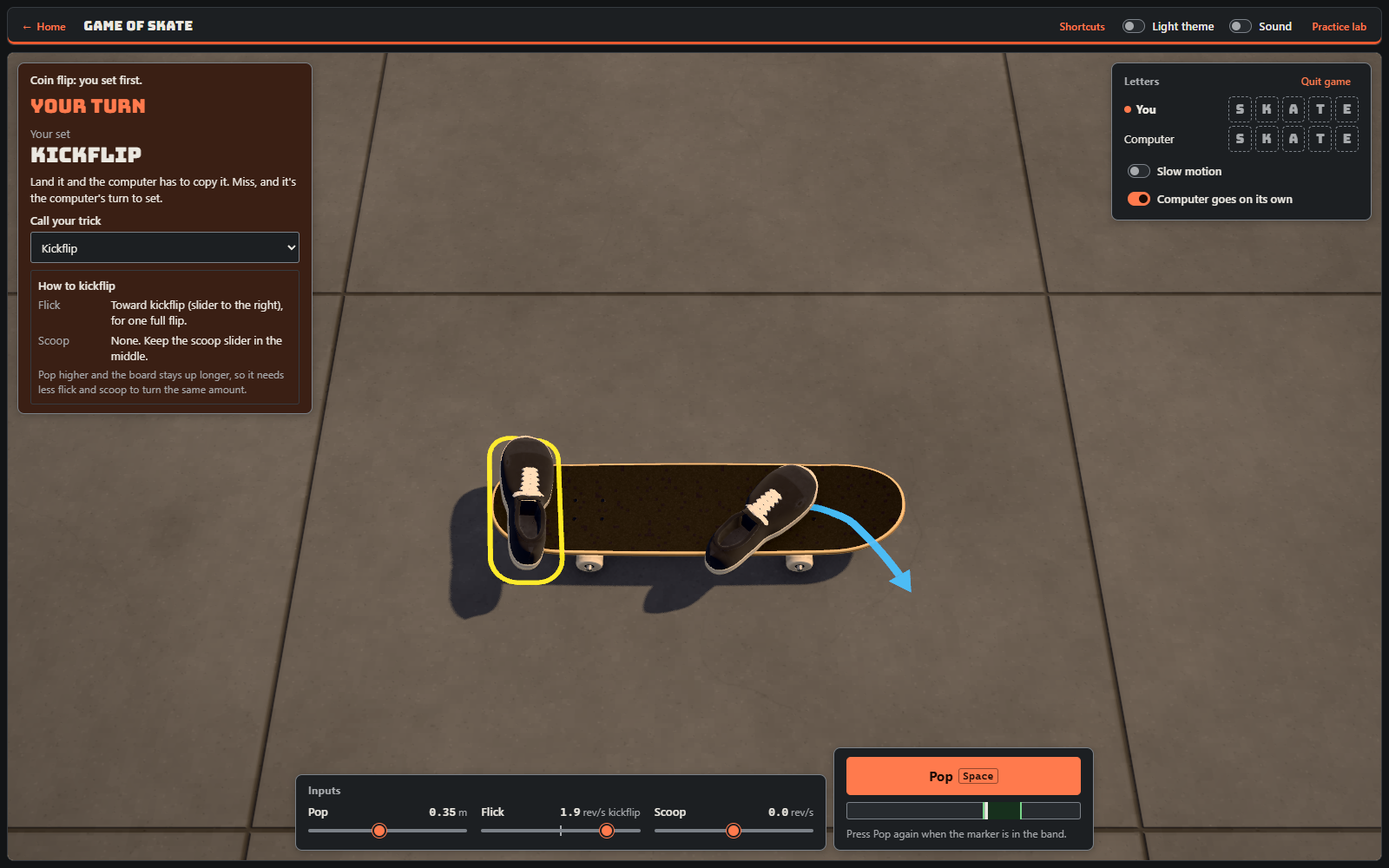
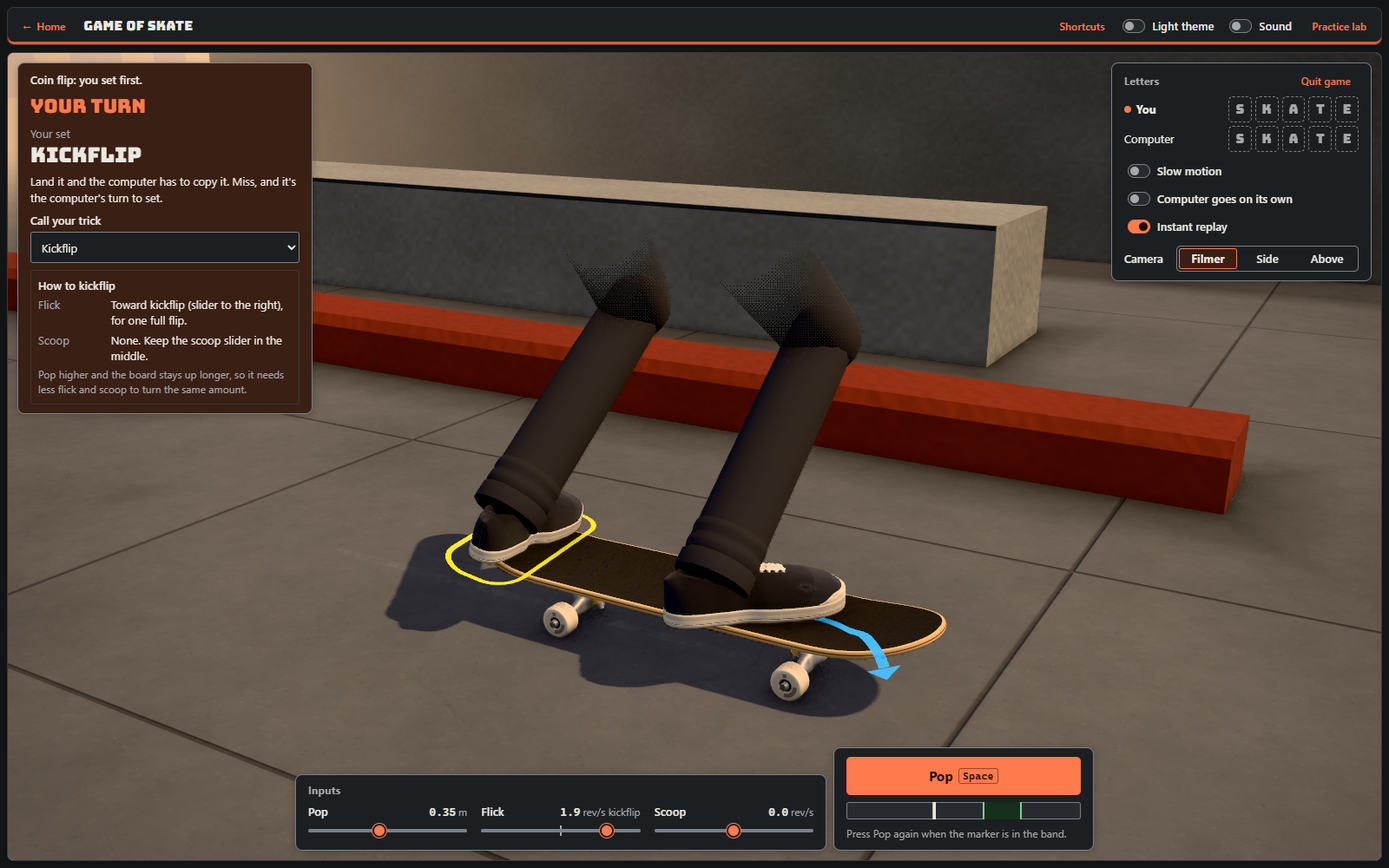
Measure everything before and after, and close the plan (step 23)
- PERF-BUDGET.md, "Step 23": the baseline (a0a2c86) and the last build
  measured the same day, both themes: loading, bytes, draw calls, frame
  times, and a whole game. Loading did not move; High's one late frame
  was there before the plan too. The keyboard-only pass is recorded.
- README: the new features, two new screenshots and a clip of a turn in
  the game. ROADMAP: where things stand.
- The plan is marked done, with the owner's checklists (a phone, Safari,
  a screen reader, built-in graphics) and a table of every choice made in
  steps 12, 13 and 17 with where to change it.

diff --git a/README.md b/README.md
@@ -8,7 +8,7 @@
 
 A browser 3D physics lab about rotation in projectile flight, taught through skateboard flip tricks. Set the pop height, flick rate and scoop rate, pop, and watch the board flip and spin under the rider's feet. The lab names the trick you made and tells you whether you landed it, or which way you over- or under-rotated.
 
-![The welcome screen: the title, the two choices, and the live preview of a kickflip caught mid-air under a golden-hour sky with a faint city, on High quality](docs/screenshots/welcome.png)
+![The welcome screen: the title, the two choices, the deck choice and the list of tricks, beside the live preview of the board and the rider's legs under a golden-hour sky with a faint city, on High quality](docs/screenshots/welcome.png)
 
 ## Features
 
@@ -17,24 +17,31 @@ A browser 3D physics lab about rotation in projectile flight, taught through ska
 - **A calm lab.** The presets, sliders, Pop and the result are up front; speed and timeline, view settings, flight numbers, foot motion, objectives and the event log open when you want them, and stay as you left them.
 - **A game of SKATE.** Play the computer by the real rules: a coin flip for who starts, call your trick before you set it, copy or take a letter, two tries on your last letter, and no trick set twice. The computer goes through the same physics as you, missing its aim more on Easy and less on Hard, and takes its go on its own after a short pause. The game screen shows only the game: whose turn it is and the trick in large type, both players' letters, the sliders and Pop. A trick guide says which way to flick and scoop, never the numbers.
 - **A game screen that is a game.** The stage fills the screen, with the turn, the letters and the controls as cards over it, and the computer takes its own turns. Your first game walks you through your first trick in three steps.
+- **A board that rolls and lands with weight.** In a game the board pushes off, rolls past a skate spot (a kerb, a rail, a ledge and a wall), pops, and rolls away. A clean landing rolls on, a sketchy one rocks and swerves under the rider, and a bail falls onto its side and slides off while the feet step down. A little dust comes off the wheels.
+- **A filmer and an instant replay.** Three camera angles in the game (Filmer, Side, Above), and after a trick you made, the flight once more in slow motion from a low, wide lens. Skip it with Pop or Escape.
+- **Your deck, and the computer's.** Pick one of four deck graphics; the computer rides its own, with shoes to match, so whose go it is shows on the board.
 - **A pop you have to time.** In a game the sliders say what you are going for, and Pop starts a timing bar: release it in the band and the board does exactly that; early spins less, late spins more. The computer times the same bar. With sound on you can do it by ear (tick, tick, pop), and "Exact" is one choice away for anyone who would rather not.
 - **Records that stay.** The welcome screen lists every trick with what you have done with it on this device (not yet, landed, clean), and the game remembers your wins and losses against each level. Nothing leaves the device, and "Clear records" asks first.
 - **Real trick recognition.** 15 named tricks across the kickflip and heelflip families and both shove-it directions, from a kickflip to a double tre. Seven presets, seven objectives, scored as you go.
 - **A rider, not a floating board.** The shoes (and the legs, if you turn them on) follow the inputs, so the front foot flicks, the back foot scoops, both feet catch the board and land on the bolts, or bail when the trick fails.
 - **Accessible first.** Every action has a keyboard shortcut and a DOM control, a live region describes each pop and outcome in plain language, and reduced motion turns playback into a scrubbable timeline.
-- **Looks and sounds the part.** A street under a real sky with a faint city, a low sun and long shadows; ambient occlusion, motion blur, a glow and a grade on High; a flat, designed look on Low. A bold headline face, the deck's orange, sticker SKATE letters that stamp in, a celebration on a landed trick, and synthesized sound effects (off until you turn them on).
-- **Built for slow hardware too.** Three quality tiers, picked for the device and stepped down by themselves if tricks run choppy: High and Medium draw with the WebGPU renderer, Low with WebGL in under 20 draw calls for a Chromebook. Models stream as KTX2-compressed glTF, a still of the scene covers the stage while they load, and the renderer draws nothing while idle.
+- **Looks and sounds the part.** A street under a real sky with a faint city, a low sun and long shadows; ambient occlusion, motion blur, a glow and a grade on High; a flat, designed look on Low. A bold headline face, the deck's orange, sticker SKATE letters that stamp in, a celebration on a landed trick, and sound (off until you turn it on): recorded pops, catches, landings and bails, and a rolling sound that ticks over the cracks in the concrete.
+- **Built for slow hardware too.** Three quality tiers, picked for the device and stepped down by themselves if tricks run choppy: High and Medium draw with the WebGPU renderer, Low with WebGL in under 20 draw calls for a Chromebook. On a touch screen every control is thumb-sized. Models stream as KTX2-compressed glTF, a still of the scene covers the stage while they load, and the renderer draws nothing while idle.
 - **Assets as code.** The board, shoes and ground are generated by scripts into compressed glTF and checked against size, triangle and draw-call budgets on every verify.
 - **An assessment record.** Every learning action (presets, inputs, pops, results, scrubs, objectives, the game's turns) is logged with a timestamp and exports as JSON; preferences such as the theme, quality and sound are not.
 
 | | |
 | --- | --- |
-| ![The game of SKATE: your turn, a kickflip called, the timing bar running under Pop, with the turn card, the letters and the sliders over the stage](docs/screenshots/skate-your-turn.png) | ![The lab in the light theme: a varial flip just landed, the celebration over the stage, with Foot motion open](docs/screenshots/lab-landed-light.png) |
+| ![The game of SKATE: your turn, a kickflip called, the timing bar running under Pop, the board rolling past the skate spot, with the turn card, the letters, the camera choice and the sliders over the stage](docs/screenshots/skate-your-turn.png) | ![The lab in the light theme: a varial flip just landed, the celebration over the stage, with Foot motion open](docs/screenshots/lab-landed-light.png) |
 | The game: whose turn and the trick, large, in slow motion | The lab: a landed varial flip, its celebration, and Foot motion open, light theme |
 
 ![A 360 flip in slow motion, from the lab's detail view on High: the board pops, flips and spins a full turn under the shoes, and lands](docs/screenshots/360-flip-slow-motion.gif)
 
 A 360 flip at about a fifth of its speed, stepped through the lab's timeline.
+
+![A turn in the game of SKATE, in slow motion: the board pushes off, rolls past the kerb and the ledge, pops a 360 flip, lands clean and rolls away](docs/screenshots/skate-turn.gif)
+
+A turn in the game, in slow motion: push off, pop, land and roll away.
 
 ## Quick start
 
@@ -58,12 +65,13 @@ Then open the local URL Vite prints. The welcome screen offers the two ways in: 
 | --- | --- |
 | `npm run dev` | Vite dev server |
 | `npm run verify` | Typecheck, lint, tests, the asset budget check, then a production build and the download budget check (CI runs this) |
-| `npm run test:browser` | The browser checks, against the build `verify` made: every screen on every quality level, the draw-call caps, the frames a landing draws, and a long-run memory test (Playwright, Chromium only; CI runs them after `verify`) |
+| `npm run test:browser` | The browser checks, against the build `verify` made: every screen on every quality level, the draw-call caps, the frames a landing draws, phone and tablet sizes with touch, and a long-run memory test that plays games (Playwright, Chromium only; CI runs them after `verify`) |
 | `npm run build` / `npm run preview` | Production build to `dist/`, then serve it |
-| `npm run assets` | Rebuild the four GLBs in `public/models` from `src/asset/` (they are committed, so this is optional) |
+| `npm run assets` | Rebuild the five GLBs and the deck textures in `public/models` from `src/asset/` (they are committed, so this is optional) |
+| `npm run sounds` | Rebuild the recorded sounds in `public/sounds` from the public-domain recordings in `assets/source/sounds` (needs ffmpeg; they are committed, so this is optional) |
 | `npm run assets:check` | Print each GLB's budget table and fail on any miss |
 
-New to the code? [`docs/REPO-GUIDE.md`](docs/REPO-GUIDE.md) maps the repo in plain language, [`docs/DECISIONS.md`](docs/DECISIONS.md) records every design decision (ADR-1 to ADR-66), and [`docs/ROADMAP.md`](docs/ROADMAP.md) says what comes next.
+New to the code? [`docs/REPO-GUIDE.md`](docs/REPO-GUIDE.md) maps the repo in plain language, [`docs/DECISIONS.md`](docs/DECISIONS.md) records every design decision (ADR-1 to ADR-77), and [`docs/ROADMAP.md`](docs/ROADMAP.md) says what comes next.
 
 ## How it works
 
@@ -79,7 +87,7 @@ src/sim/     pure physics (flight.ts), feet (feet.ts) and legs (legs.ts), recogn
 src/store/   one Zustand store: inputs, playback, assessment, ui, skate slices; export.ts
 src/asset/   pure board, shoe and ground geometry and textures (deck outline, kicks, concave, cast trucks, wheel lathe, grip noise), every number in spec.ts, shoeSpec.ts and groundSpec.ts
 src/scene/   R3F: TrickScene (Canvas), Pad, Board (BoardModel GLB or BoardPrimitive), Feet, Legs, FootPaths, FlightDriver, SceneCamera, SceneEnvironment, PerfProbe, the sky, the fog, artDirection, resources; nodeRenderer.ts and effects.ts (the WebGPU renderer and its post-processing)
-src/audio/   the synthesized sounds and their Web Audio player
+src/audio/   the recorded and synthesized sounds and their Web Audio player
 src/ui/      DOM: the welcome screen, the game of SKATE, presets, sliders, playback, telemetry, objectives, event log, announcer, dialogs, the loading picture, the celebration
 scripts/     build-board.ts (npm run assets), check-assets.ts (npm run assets:check), lib/ (build, inspect, budget, webp), measure/ (the repeatable measurement), still/ (the loading pictures)
 public/models/            the generated, committed GLBs: board.glb (Medium), board-high.glb and shoes.glb (High), ground.glb (the concrete ground, Medium and High)

diff --git a/docs/PLAN-PLAY-POLISH-REACH.md b/docs/PLAN-PLAY-POLISH-REACH.md
@@ -1,9 +1,9 @@
 # Plan: play, polish and reach (2026-11-09, revised the same day)
 
-**Status, 2026-11-10: revised, in progress.**
+**Status, 2026-11-10: done.** All 23 steps are committed on `play-polish-reach`. Steps 12 to 23 are not pushed or merged: the owner is asked. What is left is the owner's: the list of changes to the sounds, the list of changes to steps 12, 13 and 17, and the checklists (a real phone, real Safari, a screen reader, a laptop with built-in graphics).
 - Steps 1 to 11 are committed: phases A and B are done. The owner played both rough controls and picked the timing bar (2026-11-09); step 9 built it properly (ADR-65) and step 10 made the game screen a game (ADR-66). Step 11 was taken out of order while waiting for the pick.
 - Steps 1 to 11 are live on `main` (91dfb4c, 2026-11-10). The second half started on 2026-11-10, step to step without a stop except where this plan has one.
-- **Steps 12 (rolling, ADR-67), 13 (landings with weight, ADR-68), 14 (the skate spot, ADR-69), 15 (the legs on by default, ADR-70), 16 (decks, ADR-71), 17 (the game's camera and instant replay, ADR-72), 18 (sound, ADR-73), 19 (dust, ADR-74), 20 (the smoothness pass, ADR-75), 21 (phones and touch, ADR-76) and 22 (Firefox and Safari, ADR-77) are done.** The merge point after step 16 is asked; the owner's list of changes to the sounds is asked (the owner will listen later, 2026-11-10); step 23 is next. The phone and Safari checklists are in "Checklists for the owner". One target is not met on High (step 20): about one late frame in a whole game.
+- **Steps 12 (rolling, ADR-67), 13 (landings with weight, ADR-68), 14 (the skate spot, ADR-69), 15 (the legs on by default, ADR-70), 16 (decks, ADR-71), 17 (the game's camera and instant replay, ADR-72), 18 (sound, ADR-73), 19 (dust, ADR-74), 20 (the smoothness pass, ADR-75), 21 (phones and touch, ADR-76), 22 (Firefox and Safari, ADR-77) and 23 (the last measurements and pass) are done.** The merge point after step 16 is asked; the owner's list of changes to the sounds is asked (the owner will listen later, 2026-11-10); nothing is next. Every checklist is in "Checklists for the owner", and the choices of steps 12, 13 and 17 are in the table after it. One target is not met on High (step 20): about one late frame in a whole game.
 - The first version of this plan (commit b80ad3c, 23 steps) was reviewed by a second model (sol, high effort) over eight rounds.
 - This revision has not had that review. It was written after the owner changed the plan's aim (below).
 - Where a step here keeps an idea from the first version, that version's longer notes still apply unless this one says otherwise. Read them with `git show b80ad3c:docs/PLAN-PLAY-POLISH-REACH.md`.
@@ -81,7 +81,8 @@ Branch `play-polish-reach`, off `look-feel-perf`. **Everything through step 11 i
 | 57adb49 | 19: dust (ADR-74): small puffs at the wheels when a game's landing touches down, left behind as the board rolls on, and a trail behind a bailed board while it slides; Medium and High, with the Motion cues switch, never under reduced motion. One draw while it is in the air; the expected worst case did not move (High 36, Medium 21, Low 12) |
 | 09e176d | 20: the smoothness pass (ADR-75): the measurement plays a whole game; the dust's program is built before the first pop; the long-run test plays games. Every level is inside the graphics and work targets through a whole game; High misses about one refresh per game (not the 3D view's doing; left, and the gate not moved) |
 | 56b0691 | 21: phones and touch (ADR-76): no sideways scroll and working dialogs at 360, 390, 768 and 1024 px wide already; controls are now 44 px tall where the pointer is a finger; five new browser checks; the phone checklist |
-| (step 22) | 22: Firefox and Safari (ADR-77): a pass by hand in Firefox 156 and WebKit 26.6. Firefox passes everything. WebKit's Windows build plays on every level but has no audio and loses the picture after a canvas resize; real Safari is the owner's check. No code changed |
+| 2c6cb34 | 22: Firefox and Safari (ADR-77): a pass by hand in Firefox 156 and WebKit 26.6. Firefox passes everything. WebKit's Windows build plays on every level but has no audio and loses the picture after a canvas resize; real Safari is the owner's check. No code changed |
+| (step 23) | 23: everything measured before and after, the keyboard pass, the README, the ROADMAP, the owner's checklists and the table of choices |
 | 91dfb4c | The first CI run (pull request 1, 2026-11-10) timed out in one test: building the High board twice took 31.9 s on GitHub's machine against the 30 s every test gets. That test now has 120 s; what it compares is unchanged |
 
 What was waiting on the owner at the pause, all answered on 2026-11-10. Nothing is waiting now.
@@ -485,10 +486,11 @@ Small, late, and the first step to drop (the owner, 2026-11-09: phones don't mat
 - **Fixes**, and a "Browsers" table in PERF-BUDGET.md.
 - **As it went (2026-11-10):** Firefox passes everything, sound included. WebKit's Windows test build starts and plays on every level, but has no audio at all, and stops showing the picture after the canvas changes size although the app still draws it. That looks like the test build, not the app, and cannot be settled without real Safari: five questions for the owner are under "Checklists for the owner". No code changed.
 
-### 23. Measure everything, and the last pass
+### 23. Measure everything, and the last pass. Done
 - **Before (a0a2c86) and after**, from step 1's script, into PERF-BUDGET.md: every quality level, both themes, the game and the lab.
 - **Keyboard only, through every screen.** A screen reader spot check: the owner, from a checklist.
 - **Docs:** the README (features, numbers, screenshots, and a GIF of a turn in the game), the ROADMAP, CLAUDE.md, and this plan's status line.
+- **As it went (2026-11-10):** the baseline and the last build measured the same day, both themes (PERF-BUDGET.md, "Step 23"): loading did not move, the caps hold with room, and High's one late frame was there before the plan too. Keyboard only passes on every screen. The README has the new features, numbers, two new screenshots and a clip of a turn; the ROADMAP says where things stand.
 
 ## Checklists for the owner
 
@@ -517,6 +519,55 @@ The test build of Safari's engine on this Windows machine could not answer these
 3. Make the window narrower and wider (or turn the phone): the board is still shown.
 4. Turn Sound on and pop a trick: you hear the pop, the catch and the landing.
 5. Play one whole go in the game: the board rolls, pops, lands, and the replay plays.
+
+### With a screen reader (step 23)
+
+NVDA or Narrator on Windows, or VoiceOver on a Mac or a phone. Each is a yes or a no.
+
+1. On the welcome screen, the reader says the page's title and the two choices, and never reads the 3D picture as an unnamed graphic.
+2. Choose the game: the reader says "Game of SKATE" (focus lands on the heading).
+3. Start a game: you hear who won the coin flip and whose turn it is.
+4. Call a trick from the list and press Pop twice (the timing bar): you hear that the bar started, then one sentence with how the release went and the result.
+5. The computer's go: you hear what it tried and whether it landed, and any letter given.
+6. The switches (Slow motion, Computer goes on its own, Instant replay, Sound) say their name and whether they are on.
+7. The Camera choice reads as a group of three, with the chosen one marked.
+8. During the instant replay, the Pop button says "Skip replay".
+9. "Quit game" opens a question, the reader stays inside it, and Escape leaves it.
+10. Nothing is announced twice, and nothing talks over the result.
+
+### One game on a laptop with built-in graphics (step 20)
+
+If you have one: open the practice lab, View, set Quality to Medium, play one whole game, and say whether it ever stutters.
+
+## Every choice made in steps 12, 13 and 17, and where to change it
+
+Each is a number or a line in one place (decision 26). Change it, run `npm run verify`, and look.
+
+| What | Now | Where |
+| --- | --- | --- |
+| **Rolling (step 12)** | | `ART.roll` in `src/scene/artDirection.ts` |
+| How fast the board rolls | 2.4 m/s (an easy roll; a jog is about 2.5) | `cruise` |
+| How long the push-off takes to reach that speed | 0.7 s | `pushS` |
+| How long the board takes to roll to a stop after landing | 1.3 s | `slowS` |
+| How long the computer waits before its go (must stay longer than the two above together) | 2.2 s | `COMPUTER_DELAY_MS` in `src/ui/Skate.tsx`, and `--skate-turn-delay` in `src/styles/tokens.css` (a test keeps them equal) |
+| **Landings (step 13)** | | `SETTLE` in `src/sim/settle.ts` |
+| A sketchy landing: how far the nose rocks up, and for how long | 5 degrees, 0.5 s | `sketchy.rockDeg`, `sketchy.rockS` |
+| A sketchy landing: how far it swerves, for how long, and how far to the side it ends | 7 degrees, 1.0 s, 5 cm | `sketchy.swerveDeg`, `sketchy.swerveS`, `sketchy.sideM` |
+| A bail: how long the board takes to fall onto its side | 0.4 s for a quarter turn, never under 0.12 s | `bail.fallS`, `bail.minFallS` |
+| A bail: how far the board slides away, and for how long | 0.6 m forward, 0.15 m to the side, 1.1 s | `bail.forwardM`, `bail.sideM`, `bail.slideS` |
+| **The game's camera (step 17)** | | `ART.camera.views` in `src/scene/artDirection.ts`; each is `look(height in degrees above the ground, degrees round from the side, height it aims at in metres)` |
+| Filmer (the default) | 12 degrees up, 30 round toward the nose, aimed 0.32 m up | `film` |
+| Side | 7 degrees up, square on, aimed 0.32 m up | `side` |
+| Above | 34 degrees up, 20 round the other way, aimed 0.28 m up | `above` |
+| Which camera a new visitor gets | Filmer | `gameViewFrom` in `src/store/replay.ts` |
+| **The instant replay (step 17)** | | |
+| The replay's camera | 4 degrees up, 40 round, aimed 0.36 m up | `ART.camera.views.replay` |
+| The replay's lens | 60 degrees wide (the game's is 36) | `ART.camera.fovs.replay` |
+| How slow the replay plays | 0.3 of full speed | `ART.replay.rate` |
+| How strong the fisheye bend is (0 is none) | 0.28 | `ART.replay.bend` |
+| Whether the replay is on for a new visitor | On | `instantReplayFrom` in `src/store/replay.ts` |
+
+Later steps kept the same habit: the sounds are `src/audio/soundSpec.ts` and `ROLL_SOUND` in `src/audio/sounds.ts`, the dust is `ART.dust`, and the touch sizes are in `src/styles/tokens.css`.
 
 ## If time runs short
 

diff --git a/docs/PERF-BUDGET.md b/docs/PERF-BUDGET.md
@@ -697,3 +697,64 @@ A quick pass by hand, 2026-11-10, on step 21's build served like GitHub Pages, t
 - **Firefox: nothing to fix.** It looks like Chromium's picture on every level. Errors seen in one run ("Couldn't load texture blob") came from the pass's own script leaving a page while it was still loading; a clean load has none.
 - **WebKit: one thing that could not be settled here.** On a first load every level draws correctly. After the canvas changes size (going from the lab to the game inside the page, or resizing the window), this build shows the stage's background colour where the picture should be. The app is still drawing: reading the canvas's own pixels straight after a draw gives the full picture, the canvas is visible and on top, the context is not lost, and nothing is logged. More frames, hiding and showing the canvas, and resizing again do not bring it back. That points at this Windows build's compositor, not at the app (every WebGL app resizes its canvas), but it is not proof for Safari on a Mac or an iPhone. **Real Safari is the owner's check**, with sound, from the list in the plan.
 - **No code changed in this step.**
+
+### Step 23: everything, before and after
+
+The plan's baseline (a0a2c86) and its last build (step 22's), measured the same day with the same script: 2026-11-10, Chromium through `playwright-cli`, 1440 x 900, RTX 3060, feet on, cold visits, both builds served by `serve.ts`, the baseline built in a worktree. The display ran at 100 Hz, so a frame interval is 10 ms and one missed refresh reads 20 ms. The baseline cannot play the measurement's game (it has no store under `?debug`), so the game's rows are the new build's only. Both themes were measured; they agree within run-to-run noise, so one row gives both as dark / light.
+
+**Loading**, the frame where every model is on screen (Low: the first 3D frame):
+
+| Tier | Network | Before | After |
+| --- | --- | --- | --- |
+| high | full speed | 1.05 / 1.39 s | 1.08 / 1.06 s |
+| high | 10 Mbps | 1.82 / 1.80 s | 1.83 / 1.79 s |
+| high | 3 Mbps | 5.24 / 5.22 s | 5.25 / 5.29 s |
+| medium | full speed | 1.03 / 1.05 s | 1.25 / 1.04 s |
+| medium | 10 Mbps | 1.67 / 1.64 s | 1.62 / 1.59 s |
+| medium | 3 Mbps | 4.03 / 3.77 s | 4.10 / 4.09 s |
+| low | full speed | 0.46 / 0.47 s | 0.46 / 0.45 s |
+| low | 10 Mbps | 0.74 / 0.74 s | 0.77 / 0.76 s |
+| low | 3 Mbps | 1.55 / 1.55 s | 1.58 / 1.57 s |
+
+**Bytes of a first visit** (the welcome screen, as sent):
+
+| Tier | JavaScript, before | after | Models, before | after |
+| --- | --- | --- | --- | --- |
+| high | 594.6 KB | 608.1 KB | 754.6 KB | 754.9 KB |
+| medium | 593.8 KB | 607.2 KB | 273.5 KB | 274.0 KB |
+| low | 361.9 KB | 374.2 KB | 0 KB | 0 KB |
+
+**Draw calls and triangles:**
+
+| Tier | Welcome, before | after | Lab, before | after | Game at rest, before | after | Every switch on (lab), before | after | Triangles (lab), before | after |
+| --- | --- | --- | --- | --- | --- | --- | --- | --- | --- | --- |
+| high | 30 | 32 | 31 | 33 | 31 | 35 | 35 | 34 | 163,961 | 168,441 |
+| medium | 16 | 17 | 17 | 18 | 17 | 20 | 20 | 19 | 18,969 | 21,209 |
+| low | 9 | 9 | 10 | 10 | 10 | 10 | 13 | 12 | 10,487 | 10,487 |
+
+**Frame times in the lab** (four timed kickflips; median / 95th percentile / longest, dark theme):
+
+| Tier | Render CPU, before | after | GPU, before | after | Frame interval, before | after |
+| --- | --- | --- | --- | --- | --- | --- |
+| high | 0.7 / 2 / 3.3 ms | 0.6 / 1.7 / 2.6 ms | 0.66 / 0.72 / 0.79 ms | 1.05 / 1.18 / 1.44 ms | 10 / 10.1 / 19.9 ms | 10 / 10.1 / 29.9 ms |
+| medium | 0.5 / 1.7 / 2.9 ms | 0.5 / 1.7 / 2.8 ms | 0.52 / 0.59 / 0.66 ms | 0.85 / 0.92 / 0.92 ms | 10 / 10.1 / 10.5 ms | 10 / 10.1 / 10.4 ms |
+| low | 0.2 / 0.4 / 2.5 ms | 0.2 / 0.6 / 1.2 ms | 0.1 / 0.11 / 2.59 ms | 0.17 / 0.43 / 2.07 ms | 10 / 10.1 / 10.2 ms | 10 / 10.1 / 10.2 ms |
+
+**A whole game on the new build** (after its first go; dark / light):
+
+| Tier | Goes | Frames | GPU, 95th percentile | The app's work, 95th percentile | Longest frame interval | Intervals over 20 ms |
+| --- | --- | --- | --- | --- | --- | --- |
+| high | 25 / 15 | 4,416 / 2,444 | 1.51 / 1.51 ms of under 4 | 1.5 / 1.7 ms of under 4 | 20 / 20 ms | 0 / 0 |
+| medium | 28 / 14 | 4,894 / 2,100 | 1.18 / 1.18 ms of under 3 | 1.2 / 1.1 ms of under 4 | 10.4 / 10.6 ms | 0 / 0 |
+| low | 11 / 28 | 1,621 / 4,918 | 0.65 / 0.63 ms of under 2 | 0.6 / 0.5 ms of under 4 | 10.3 / 11.2 ms | 0 / 0 |
+
+What the plan cost and bought, in numbers:
+
+- **Loading did not move.** The complete scene is still on screen in about 1.1 s on High and Medium and under half a second on Low at full speed, with 13 KB more JavaScript (the game's controls, records, rolling, landings, the camera, the replay and the dust) and the same models. The skate spot, the decks and the sounds are downloaded only when the game or the Sound switch needs them.
+- **A draw call fewer with every switch on** (the legs became one draw, step 2), **and two to three more in the game** (the skate spot and its shadows; the dust is inside that). All far inside the caps of 60, 40 and 20.
+- **The graphics card does a little more per frame** on High and Medium: 0.4 ms more in the lab (the legs on by default with their cloth, the wheels' print), and about 1.5 ms at the 95th percentile through a game against a target of 4 and 3 ms.
+- **Medium and Low never missed a refresh**, in the lab or through a whole game.
+- **High misses a single refresh now and then, and it did before this plan too.** The baseline's lab run has the same one frame of 19.9 ms on High in both themes; the new build's has 20 to 29.9 ms, and one of 20 ms in a game of thousands of frames. By the letter the "no frame longer than 16.7 ms" target is not met on High on a 100 Hz display, on either build. Step 20 says where it comes from (the page redrawing a card, not the 3D view) and that nothing was changed for it.
+- **Memory stays flat** over the long-run test with games in it (step 20).
+
+Keyboard only, through every screen (2026-11-10, Chromium, by script): on the welcome screen, the game screen before and in a game, and the lab, every visible control is reached by Tab (8, 8, 16 and 70 of them), each with a visible focus ring and in view; Enter on the first choice opens the game with focus on its heading; Start game puts focus on the turn's heading; the leave dialog keeps Tab inside itself, Escape closes it and focus returns to "Quit game"; in the lab the number keys, Space, `r` and `?` work, the shortcuts dialog opens on Close and returns focus where it was; the live region speaks. A screen reader spot check is the owner's, from the list in the plan.

diff --git a/docs/ROADMAP.md b/docs/ROADMAP.md
@@ -8,6 +8,8 @@ The ground rule for both lists was: **every new visual feature gets an off switc
 
 ## Where things stand
 
+**Update 2026-11-10.** The play, polish and reach plan (`docs/PLAN-PLAY-POLISH-REACH.md`, ADR-60 to ADR-77) is done: the game has a timing bar, graded landings, records, a board that rolls and lands with weight, a skate spot, the legs by default, a choice of deck, three cameras and an instant replay, recorded sound, dust, thumb-sized controls on touch screens, and a pass in Firefox and Safari's engine. It is measured over a whole game on every quality level (PERF-BUDGET.md, "Step 20" and "Step 23"). Left open by it: one late frame per game on High (the page redrawing a card), and three checks only the owner can make: a real phone, real Safari, a screen reader. Its "Parked" list is the next place to look for work.
+
 **Update 2026-11-09.** The look, feel and performance plan (`docs/PLAN-LOOK-FEEL-PERF.md`, ADR-48 to ADR-59) finished the items marked done below: KTX2 textures, the WebGPU renderer with post-processing on High and Medium, a sky, a designed Low, the loading picture, the skate style, sound, the automatic step-down, and the before-and-after tables (`docs/PERF-BUDGET.md`, step 14). The notes below are from 2026-11-04.
 
 - Drawing a frame is already cheap: about 0.2 ms per frame, 11 draw calls, and no frames at all while idle (see `docs/PERF-BUDGET.md`).
@@ -23,7 +25,7 @@ In order of payoff:
 2. **Turn edge smoothing (antialiasing) back on** for High. It is off for speed, so the board's edges look jagged. It is the most visible quality gap right now. Done: MSAA on High since the quality tiers (ADR-16), and on Low too since ADR-54.
 3. **Show a still image while the 3D loads**, then fade to the live scene, so the first second looks finished. Done 2026-11-09 (ADR-56).
 4. **Use pre-made studio lighting** instead of the built-in procedural room. It gives a better look you choose yourself, and it removes the biggest startup cost left. It changes the look, so record the decision in `docs/DECISIONS.md`. Superseded: the room became a procedural outdoor sky (ADR-31, ADR-52) with nothing downloaded, and Low builds no lighting map at all (ADR-54).
-5. **Polish the motion:** ghost copies of the board along its flight path, a flight-path line, and replay with slow motion and an easing camera.
+5. **Polish the motion:** ghost copies of the board along its flight path, a flight-path line, and replay with slow motion and an easing camera. The replay is done (2026-11-10, ADR-72): slow motion from a fixed low, wide camera. The ghost copies and the flight-path line are not.
 6. **Add more tricks.** Done 2026-11-04 (ADR-30): signed flick and scoop, directional recognition and 15 named tricks; the hardflip was then removed on purpose (ADR-41). The rest of this item is the original note. Today the app counts flips and spins but not their direction. Letting flick and scoop go negative unlocks heelflip, varial heelflip, laser flip, frontside shove-it, hardflip and inward heelflip. That means letting the sliders go negative (`INPUT_LIMITS` in `src/sim/tricks.ts`), teaching the recognizer about direction, and adding the new names and tests in the same file (the flight math in `src/sim/flight.ts` already handles negative rates). Rendering costs nothing extra.
 7. **Add a README GIF** of a 360 flip landing in slow motion. Done 2026-11-09 (`docs/screenshots/360-flip-slow-motion.gif`).
 
